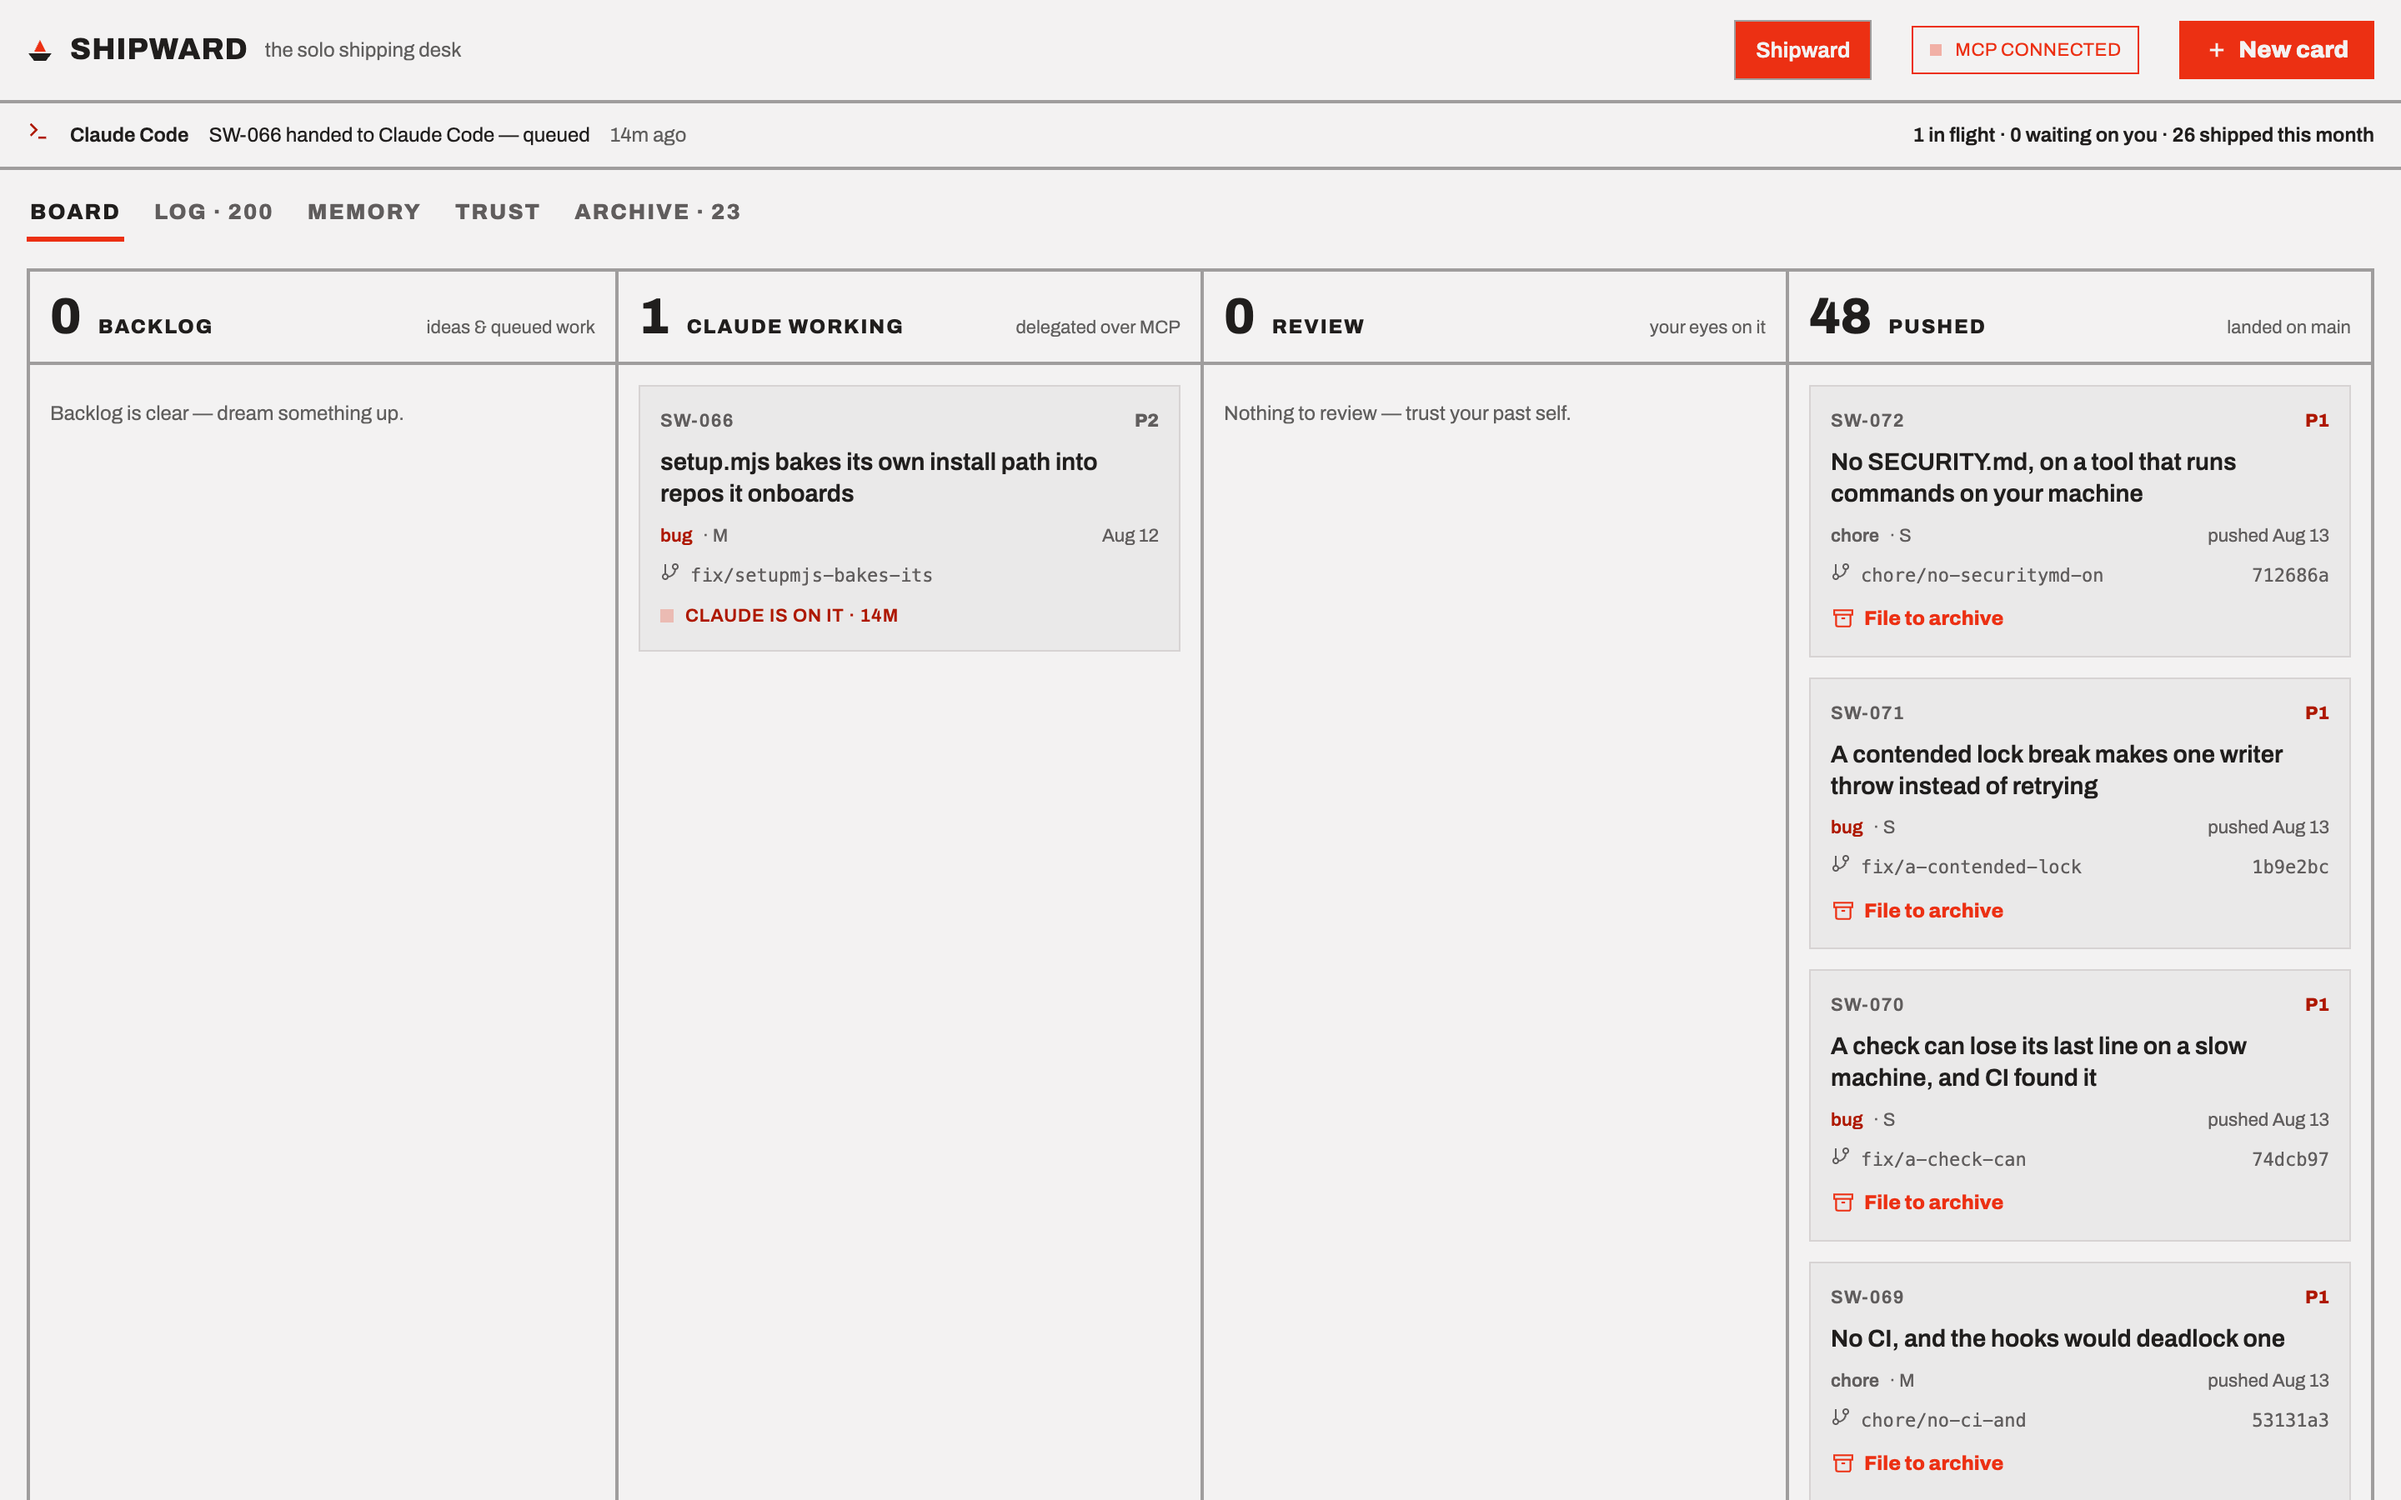
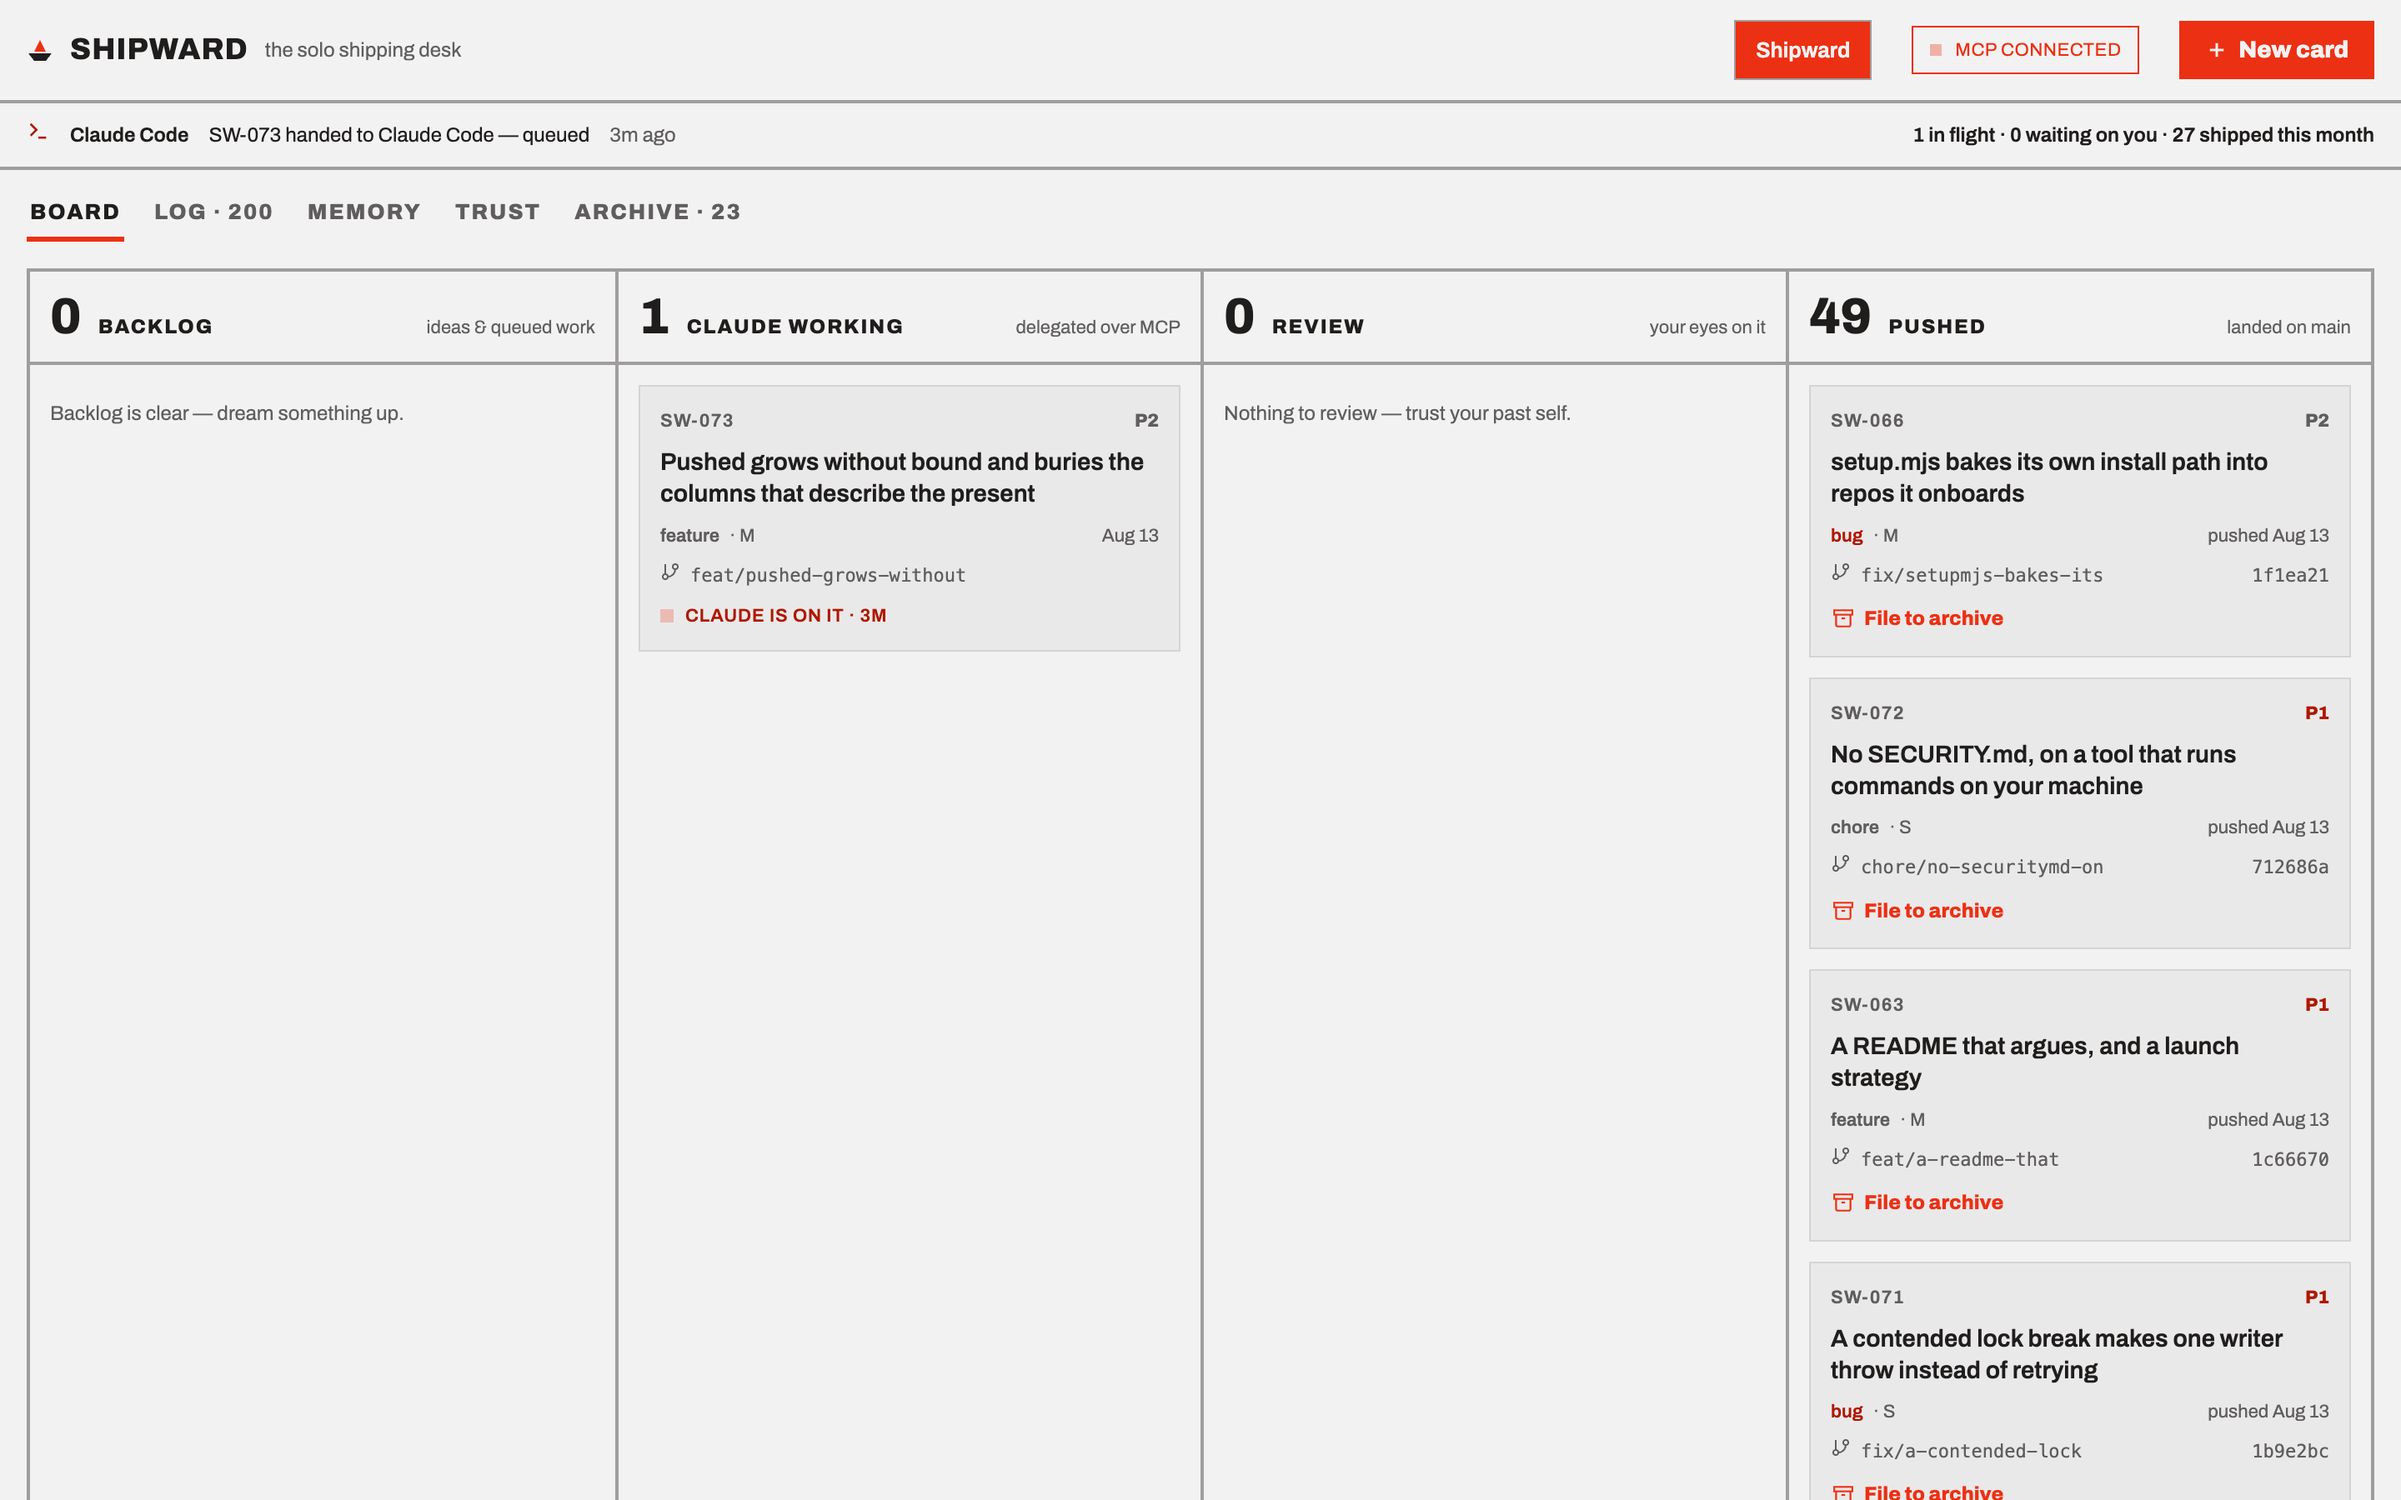
SW-073: Pushed is capped in the view, not archived behind your back
Pushed is the only column that grows without bound — every other one
empties as work moves through, and Pushed is where work goes to stay.
This board reached 49 in sixteen days, burying the three columns that
describe the present, which is the whole job of a board.

A VIEW cap, deliberately, not an auto-archive: the ten most recent are
shown, the rest are named in a tail you can expand, and nothing moves on
disk. Hiding a card is a rendering decision undone by looking; archiving
asserts the work is finished with. This product only changes card state on
its own where git can PROVE the change, and tidiness proves nothing.

The head count stays the TRUE total — 49, not 10. A board that showed ten
of forty-nine and said "10" would be the board lying about itself, which
is the one thing it cannot do. Tested, along with: nothing is dropped on
the floor (shown + hidden = total), no other column is ever capped, and a
card whose pushed date is missing or unparseable sinks rather than jumping
the queue — Claude Code writes this file directly, so both are possible.

"Archive these 39" does the tidying in one click instead of forty-nine,
still behind a confirm, with one feed entry and nothing deleted.

Verified against the live DOM rather than by eye: head count 49, ten cards
rendered, the tail reading "…and 39 more, landed before Aug 13", and the
expander taking it to 49 and removing the tail. The README screenshot is
[…]

diff --git a/shipward/public/app.js b/shipward/public/app.js
@@ -23,6 +23,7 @@ const state = {
   dragging: null,
   drift: null,      // SW-044: git's answer about each anchored sha, from /api/drift
   trust: null,      // SW-045: {known, findings} from /api/trust — null until it answers
+  showAllPushed: false, // SW-073: the Pushed cap is a view, so undoing it is view state
   memoryQuery: '',   // memory view: free-text filter
   memoryFile: null,  // memory view: narrow to one file's accumulated knowledge
   logBy: null,       // log view: null = everyone, 'claude' | 'user'
@@ -648,8 +649,52 @@ function renderMemoryEntry(e) {
   );
 }
 
+// SW-073. What the cap is hiding, said out loud and undoable by looking. The
+// count in the column head is still the true total — a board that quietly
+// showed 10 of 49 and said "10" would be the board lying about itself, which is
+// the one thing this product cannot do.
+function renderPushedTail(col) {
+  const n = col.hidden.length;
+  const oldest = col.cards[col.cards.length - 1];
+  return el('div', { class: 'col-tail' },
+    el('button', {
+      class: 'btn-link col-tail-more',
+      text: `…and ${n} more, landed before ${fmtDate(oldest?.pushed)}`,
+      onclick: () => { state.showAllPushed = true; render(); },
+    }),
+    // The tidying, in one click instead of forty-nine — but still a click. It
+    // takes exactly what is hidden, which is what the reader just saw named.
+    el('button', {
+      class: 'btn btn-secondary btn-block col-tail-archive',
+      text: `Archive these ${n}`,
+      onclick: () => archiveMany(col.hidden.map((c) => c.id)),
+    }),
+  );
+}
+
+// One write, one feed entry, and never a silent partial: cards that cannot make
+// the transition are left alone and reported rather than skipped quietly.
+function archiveMany(ids) {
+  if (!ids.length) return;
+  if (!confirm(`Archive ${ids.length} pushed card${ids.length === 1 ? '' : 's'}? They move to the Archive tab; nothing is deleted.`)) return;
+  commit((doc) => {
+    const want = new Set(ids);
+    let moved = 0;
+    doc.cards = doc.cards.map((c) => {
+      if (!want.has(c.id)) return c;
+      const updated = applyTransition(c, 'shipped', now());
+      if (!updated) return c;
+      moved++;
+      return updated;
+    });
+    if (!moved) return null;
+    doc.feed = feedAdd(doc.feed, doc.activeProject, `Archived ${moved} pushed card${moved === 1 ? '' : 's'}`, now());
+    return doc;
+  });
+}
+
 function renderBoard(doc, project) {
-  const columns = deriveColumns(doc.cards, project.id);
+  const columns = deriveColumns(doc.cards, project.id, { showAllPushed: state.showAllPushed });
   return el('main', { class: 'board-wrap' },
     el('div', { class: 'board' }, columns.map(renderColumn)),
     el('div', { class: 'text-muted board-caption',
@@ -684,6 +729,7 @@ function renderColumn(col) {
     el('div', { class: 'col-body' },
       col.isEmpty ? el('div', { class: 'text-muted col-empty', text: col.empty }) : null,
       col.cards.map(renderCard),
+      col.hidden?.length ? renderPushedTail(col) : null,
       col.key === 'backlog'
         ? el('button', { class: 'btn btn-secondary btn-block col-add', text: '+ Add a card',
             onclick: () => openDialog('new') })

diff --git a/shipward/public/lib.js b/shipward/public/lib.js
@@ -145,11 +145,46 @@ export function feedAdd(feed, projectId, msg, nowIso, by = 'user') {
 
 export const cardsOf = (cards, projectId) => cards.filter((c) => c.p === projectId);
 
-export function deriveColumns(cards, projectId) {
+// SW-073. Pushed is the only column that grows without bound: every other one
+// empties as work moves through, and Pushed is where work goes to stay. This
+// board reached 49 in sixteen days, which buried the three columns that
+// describe the PRESENT — and telling you what is happening now is the whole job
+// of a board.
+//
+// A VIEW cap, deliberately, not an auto-archive. Nothing moves on disk and no
+// card changes state without a human: hiding a card is a rendering decision and
+// can be undone by looking, where archiving asserts the work is finished with.
+// This product only changes card state on its own where git can PROVE the
+// change; tidiness proves nothing.
+export const PUSHED_SHOWN = 10;
+
+// Newest first by the moment it landed, so the cap keeps what just happened.
+// Falls back to the document's own order when a timestamp is missing or
+// unparseable — Claude Code writes this file directly, so both are possible,
+// and a card with no date must not jump to the top.
+const byLanded = (a, b) => {
+  const t = (c) => {
+    const d = Date.parse(c.pushed || '');
+    return Number.isNaN(d) ? -Infinity : d;
+  };
+  return t(b) - t(a);
+};
+
+export function deriveColumns(cards, projectId, { pushedCap = PUSHED_SHOWN, showAllPushed = false } = {}) {
   const mine = cardsOf(cards, projectId);
   return COLUMNS.map((d) => {
     const list = mine.filter((c) => c.status === d.key);
-    return { ...d, count: list.length, cards: list, isEmpty: list.length === 0 };
+    if (d.key !== 'pushed' || showAllPushed || pushedCap == null || list.length <= pushedCap) {
+      return { ...d, count: list.length, cards: list, isEmpty: list.length === 0, hidden: [] };
+    }
+    const ordered = [...list].sort(byLanded);
+    return {
+      ...d,
+      count: list.length,                  // the COUNT never lies about the total
+      cards: ordered.slice(0, pushedCap),
+      hidden: ordered.slice(pushedCap),    // named, not just counted, so the bulk action knows what it would take
+      isEmpty: false,
+    };
   });
 }
 

diff --git a/shipward/public/app.css b/shipward/public/app.css
@@ -510,3 +510,28 @@ textarea.input { min-height: 90px; resize: vertical; }
 .trust-row-top { display: flex; align-items: baseline; gap: var(--space-2); flex-wrap: wrap; }
 .trust-headline { font-family: var(--font-heading); font-weight: 600; font-size: 13.5px; }
 .trust-detail { margin: 0; font-size: 13px; line-height: 1.55; max-width: 88ch; }
+
+/* SW-073. The tail of a capped Pushed column: what is hidden, and the one
+   click that files it. Quiet by default — this is the bottom of a column of
+   finished work, not something to draw the eye away from what is in flight. */
+.col-tail {
+  margin-top: var(--space-2);
+  padding-top: var(--space-3);
+  border-top: 1px dashed var(--color-divider);
+  display: flex;
+  flex-direction: column;
+  gap: var(--space-2);
+}
+.col-tail-more {
+  background: none;
+  border: 0;
+  padding: 0;
+  font: inherit;
+  font-size: 0.8125rem;
+  color: color-mix(in srgb, var(--color-text) 70%, transparent);
+  text-align: left;
+  cursor: pointer;
+  text-decoration: underline;
+  text-underline-offset: 2px;
+}
+.col-tail-more:hover { color: var(--color-text); }

diff --git a/README.md b/README.md
@@ -143,8 +143,10 @@ Not mockups. This is the board that built Shipward, photographed as it stands.
 
 <img src="assets/board.png" alt="The Shipward board: columns for Backlog, Claude Working, Review and Pushed. One card is in progress, 48 have shipped." width="100%">
 
-**The board.** One card in flight, nothing waiting on you, 48 landed. Each card
-carries its branch and the commit that proves it.
+**The board.** One card in flight, nothing waiting on you, 49 landed. Each card
+carries its branch and the commit that proves it. Pushed shows the most recent
+and keeps the count honest — *“…and 39 more”* is one click from expanding, or one
+from filing to the Archive.
 
 <img src="assets/trust.png" alt="The Trust tab, headed 'What nothing can settle for you', listing two cards closed without a check having run." width="100%">
 
